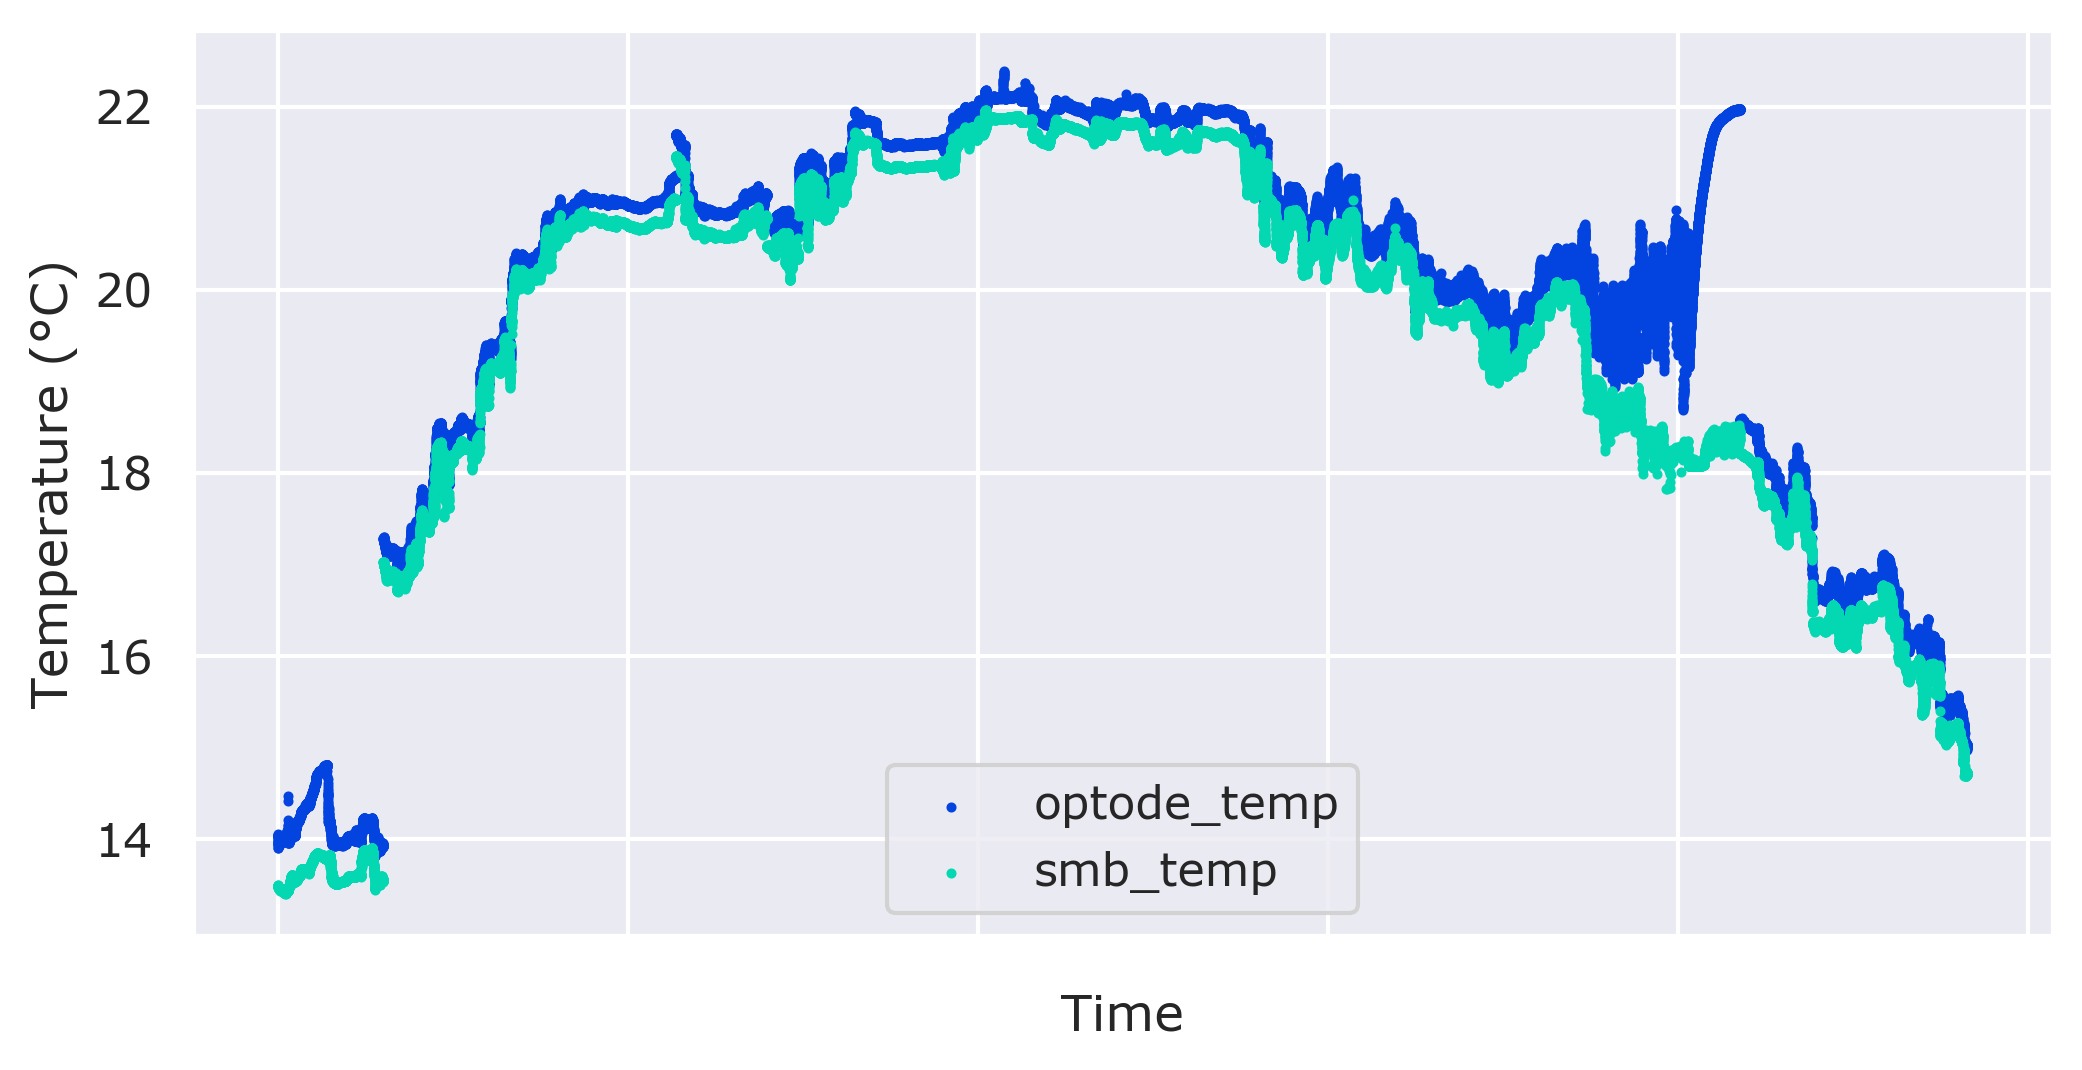
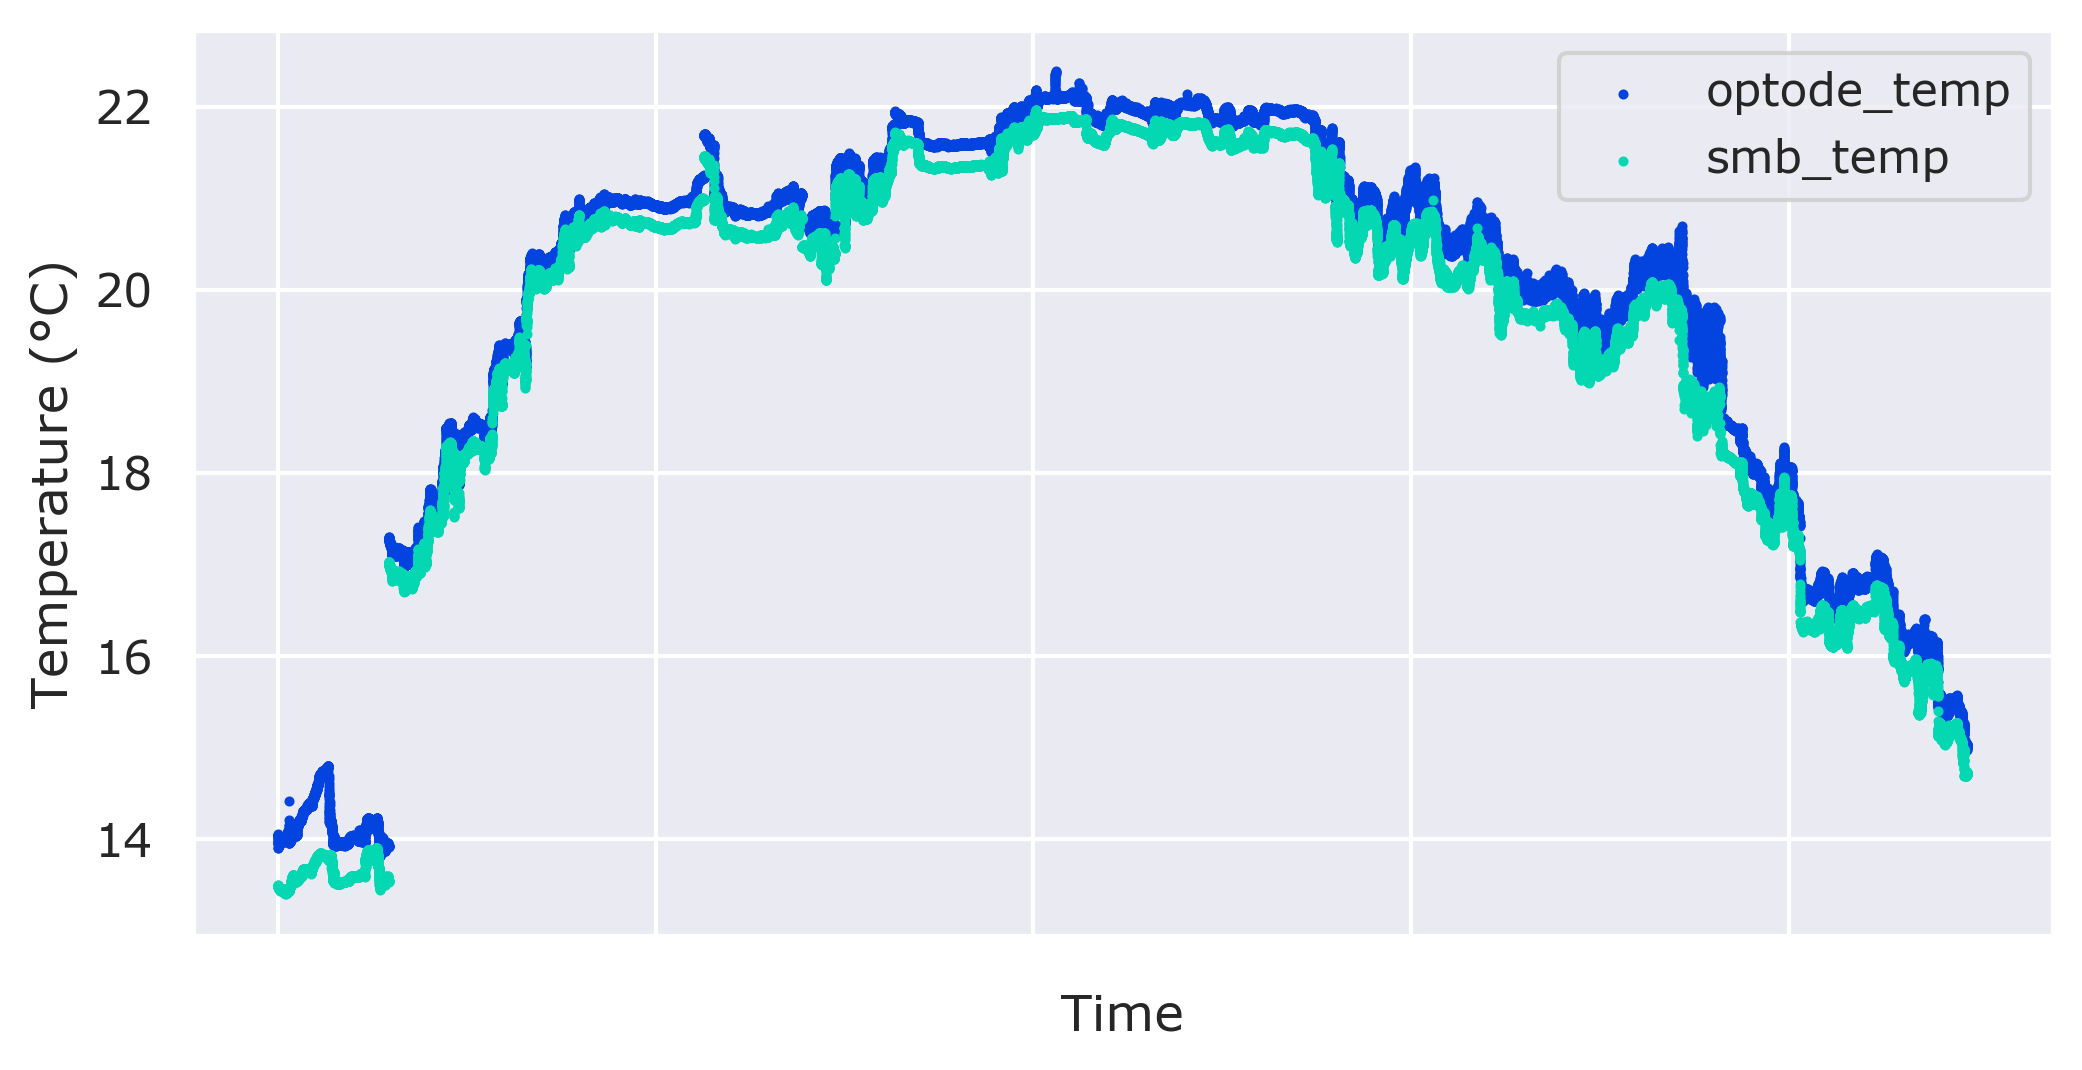
fig init

diff --git a/so279_plotting_init.py b/so279_plotting_init.py
@@ -3,7 +3,7 @@ from matplotlib import pyplot as plt
 import seaborn as sns
 
 # import spreadsheet
-db = pd.read_table('./data/UWS/df_processed.txt',
+db = pd.read_csv('./data/UWS/df_carb.csv',
                    skiprows=[1])
 
 #%% plot pt-100 temp vs. SBE38
